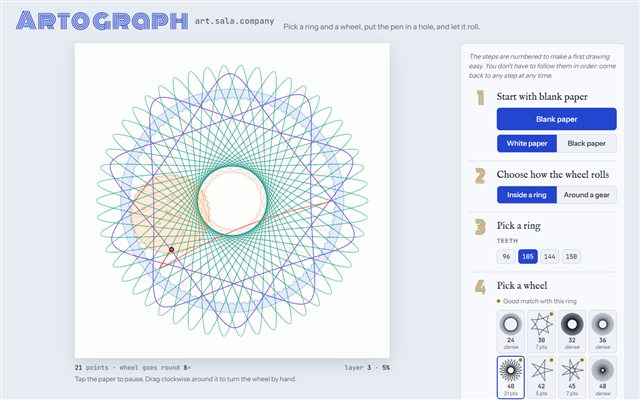
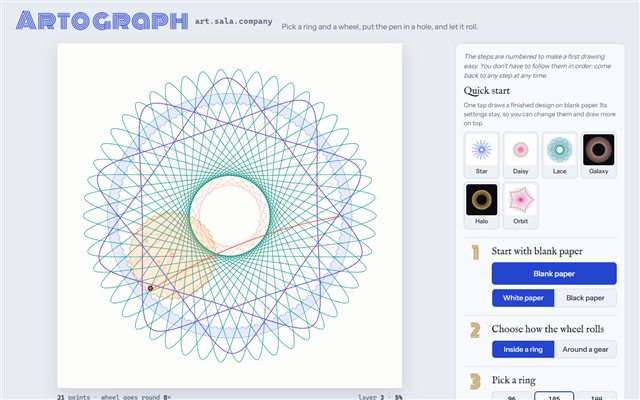
Artograph card: recipes, layers, gear clicks and wobble; new screenshot
Card text and search tags, structured-data description, What's new line
and README updated for Artograph's new features. The screenshot now
shows the Quick start recipes.

Changed region(s): [[0.0625, 0.06, 0.75, 1.0], [0.7188, 0.12, 0.9688, 1.0], [0.3125, 0.03, 0.4375, 0.06]]

diff --git a/index.html b/index.html
@@ -110,7 +110,7 @@
                     { "@type": "ListItem", "position": 15, "item": { "@type": "WebApplication", "name": "Harmony: local AI co-producer for Suno prompts", "url": "https://harmony.sala.company", "image": "https://go.sala.company/img/harmony.jpg", "description": "Turns a rough song idea into titles, genre tags, lyric skeletons and exclude lists for Suno's Custom Mode.", "applicationCategory": "MultimediaApplication", "operatingSystem": "Any (web browser)", "isAccessibleForFree": true, "offers": { "@type": "Offer", "price": "0", "priceCurrency": "USD" } } },
                     { "@type": "ListItem", "position": 16, "item": { "@type": "WebSite", "name": "How AI Works", "url": "https://understand.sala.company", "image": "https://go.sala.company/img/understand.jpg", "description": "Plain-language explanations of AI, from rule-based systems to neural networks and large language models." } },
                     { "@type": "ListItem", "position": 17, "item": { "@type": "WebSite", "name": "AI Tools Collection", "url": "https://ai.sala.company", "image": "https://go.sala.company/img/ai.jpg", "description": "A curated directory of AI websites and tools, sorted by what they do and whether they are free." } },
-                    { "@type": "ListItem", "position": 18, "item": { "@type": "WebApplication", "name": "Artograph: a Spirograph in your browser", "url": "https://art.sala.company", "image": "https://go.sala.company/img/artograph.jpg", "description": "A gear-and-pen drawing toy in the spirit of the classic Spirograph: real ring and wheel tooth counts, pattern previews on every wheel, gel-pen colors, drag-to-crank drawing, rosettes, PNG and SVG export and share links.", "applicationCategory": "DesignApplication", "operatingSystem": "Any (web browser)", "isAccessibleForFree": true, "offers": { "@type": "Offer", "price": "0", "priceCurrency": "USD" } } },
+                    { "@type": "ListItem", "position": 18, "item": { "@type": "WebApplication", "name": "Artograph: a Spirograph in your browser", "url": "https://art.sala.company", "image": "https://go.sala.company/img/artograph.jpg", "description": "A gear-and-pen drawing toy in the spirit of the classic Spirograph: one-tap recipes, real ring and wheel tooth counts, pattern previews on every wheel, numbered pen holes, gel-pen colors, drag-to-crank drawing, rosettes, editable layers, gear clicks, PNG and SVG export and share links.", "applicationCategory": "DesignApplication", "operatingSystem": "Any (web browser)", "isAccessibleForFree": true, "offers": { "@type": "Offer", "price": "0", "priceCurrency": "USD" } } },
                     { "@type": "ListItem", "position": 19, "item": { "@type": "WebApplication", "name": "Secret Emoji Messenger", "url": "https://secret.sala.company", "image": "https://go.sala.company/img/secret.jpg", "description": "Hide secret text inside an emoji with Unicode steganography.", "applicationCategory": "UtilitiesApplication", "operatingSystem": "Any (web browser)", "isAccessibleForFree": true, "offers": { "@type": "Offer", "price": "0", "priceCurrency": "USD" } } },
                     { "@type": "ListItem", "position": 20, "item": { "@type": "WebApplication", "name": "iPod Classic Player", "url": "https://music.sala.company", "image": "https://go.sala.company/img/music.jpg", "description": "A browser-based iPod Classic MP3 player for your own music files.", "applicationCategory": "MultimediaApplication", "operatingSystem": "Any (web browser)", "isAccessibleForFree": true, "offers": { "@type": "Offer", "price": "0", "priceCurrency": "USD" } } },
                     { "@type": "ListItem", "position": 21, "item": { "@type": "Blog", "name": "Early Wake Up Club newsletter", "url": "https://mutawa.substack.com", "image": "https://go.sala.company/img/substack.jpg", "description": "A newsletter on technology, business and AI." } },
@@ -490,7 +490,7 @@
             <section class="whats-new" id="whats-new" aria-labelledby="whats-new-title">
                 <h2 id="whats-new-title">What's new <time datetime="2026-10">Oct 2026</time></h2>
                 <ul>
-                    <li><a href="https://art.sala.company">Artograph</a>: a Spirograph in your browser, with gears, gel pens and rosettes</li>
+                    <li><a href="https://art.sala.company">Artograph</a>: a Spirograph in your browser, with one-tap recipes, gel pens and rosettes</li>
                     <li><a href="https://story.sala.company">Scene to Story</a>: AI turns a one-minute video into a story or poem</li>
                     <li><a href="https://heat.sala.company/etfs/">Heat ETFs</a>: 112 US stock ETFs by sector, theme and country</li>
                     <li><a href="https://news.sala.company">Sala News</a> is out of beta, with breaking-news alerts</li>
@@ -676,16 +676,16 @@
                 <h2 id="more-title">More</h2>
                 <p>A drawing toy, small tools, writing and the store.</p>
                 <ul class="grid">
-                    <li class="item" data-tags="artograph spirograph drawing draw art gears wheel ring pen pattern rosette spiral toy creative svg png">
+                    <li class="item" data-tags="artograph spirograph drawing draw art gears wheel ring pen pattern rosette spiral toy creative svg png recipes layers">
                         <article class="card">
-                            <img class="shot" src="img/artograph.jpg" width="640" height="400" alt="Artograph: a spirograph pattern of teal, violet and coral loops beside numbered steps for picking a ring and a wheel" loading="lazy">
+                            <img class="shot" src="img/artograph.jpg" width="640" height="400" alt="Artograph: a spirograph pattern of teal, violet and coral loops beside one-tap recipes and numbered steps for picking a ring and a wheel" loading="lazy">
                             <div class="card-body">
                                 <div class="card-title-row">
                                     <h3><a href="https://art.sala.company">Artograph</a></h3>
                                     <span class="badge badge-new">New</span>
                                 </div>
-                                <p>A Spirograph in your browser. Pick a ring and a wheel, put the pen in a hole, and watch it roll, or drag around the paper to turn the wheel yourself.</p>
-                                <p class="note">Every wheel previews its pattern. Save drawings as PNG or SVG, or share them as a link.</p>
+                                <p>A Spirograph in your browser. Start from a one-tap recipe, or pick a ring, a wheel and a pen hole and watch it roll. Drag around the paper to turn the wheel yourself.</p>
+                                <p class="note">Every wheel previews its pattern. Rosettes, layers you can hide or recolor, gear clicks and an optional real-toy wobble. Save as PNG or SVG, or share as a link.</p>
                                 <div class="actions"><span class="btn" aria-hidden="true">Open Artograph →</span></div>
                             </div>
                         </article>

diff --git a/README.md b/README.md
@@ -10,7 +10,7 @@ The start page for all of Sala Company's browser projects: live world news, mark
 
 The page has a matching **What's new** strip under the search bar. Update both together, and keep it to the last month or so.
 
-- **Artograph:** a Spirograph in the browser. Rings and wheels with real tooth counts, a pattern preview on every wheel, gel-pen colors, drag-to-crank drawing, rosettes, PNG and SVG export and share links.
+- **Artograph:** a Spirograph in the browser. One-tap recipes, rings and wheels with real tooth counts, a pattern preview on every wheel, numbered pen holes, gel-pen colors, drag-to-crank drawing, rosettes, layers you can hide or recolor, gear clicks, PNG and SVG export and share links.
 - **Scene to Story:** record, upload or pick a YouTube clip up to a minute long, and the AI (Claude) writes the moment as prose, a poem or a screenplay. The video stays on your device, and the AI is paid for through your own OpenRouter account.
 - **Heat ETFs:** 112 of the most traded US stock ETFs, grouped into the US market, the 11 sectors, industries and themes, and countries.
 - **Sala News** is out of beta: a new look, about 95 live sources, breaking-news alerts and videos from 29 news channels.
@@ -53,7 +53,7 @@ In the order the page shows them, most active first.
 
 | | Project | What it is | Code |
 |---|---|---|---|
-| <img src="img/artograph.jpg" width="160" alt=""> | **[Artograph](https://art.sala.company)** | A Spirograph in the browser. Pick a ring and a wheel (real tooth counts, each wheel previewing its pattern), put the pen in a hole and let it roll, or drag around the paper to crank it by hand. Gel-pen colors, white or black paper, rosettes, PNG and SVG export, and share links that carry the whole drawing. | [art](https://github.com/jamalxcode/art) |
+| <img src="img/artograph.jpg" width="160" alt=""> | **[Artograph](https://art.sala.company)** | A Spirograph in the browser. Start from one of six one-tap recipes, or pick a ring and a wheel (real tooth counts, each wheel previewing its pattern), put the pen in one of the wheel's numbered holes and let it roll, or drag around the paper to crank it by hand. Gel-pen colors, white or black paper, rosettes, layers you can hide, recolor or delete, undo and redo, keyboard shortcuts, optional gear clicks and real-toy wobble, PNG (optionally transparent) and SVG export, copy image, and share links that carry the whole drawing. On phones the paper stays on top with the controls in tabs. | [art](https://github.com/jamalxcode/art) |
 | <img src="img/secret.jpg" width="160" alt=""> | **[Secret Emoji Messenger](https://secret.sala.company)** | Hide a secret message inside an emoji with invisible Unicode characters. | [hidetext](https://github.com/jamalxcode/hidetext) |
 | <img src="img/music.jpg" width="160" alt=""> | **[iPod Classic Player](https://music.sala.company)** | A faithful iPod Classic in the browser for your own MP3s. | [retro-tunes-player](https://github.com/jamalxcode/retro-tunes-player) |
 | <img src="img/substack.jpg" width="160" alt=""> | **[Early Wake Up Club](https://mutawa.substack.com)** | A newsletter on technology, business and AI. Recent: [The Trillion Dollar Club](https://mutawa.substack.com/p/the-trillion-dollar-club) (Jan 2026), [From Mining Bitcoin to Powering ChatGPT](https://mutawa.substack.com/p/from-mining-bitcoin-to-powering-chatgpt) (Dec 2025), [The Great AI Chip War](https://mutawa.substack.com/p/the-great-ai-chip-war-how-china-and) (Nov 2025). | — |
